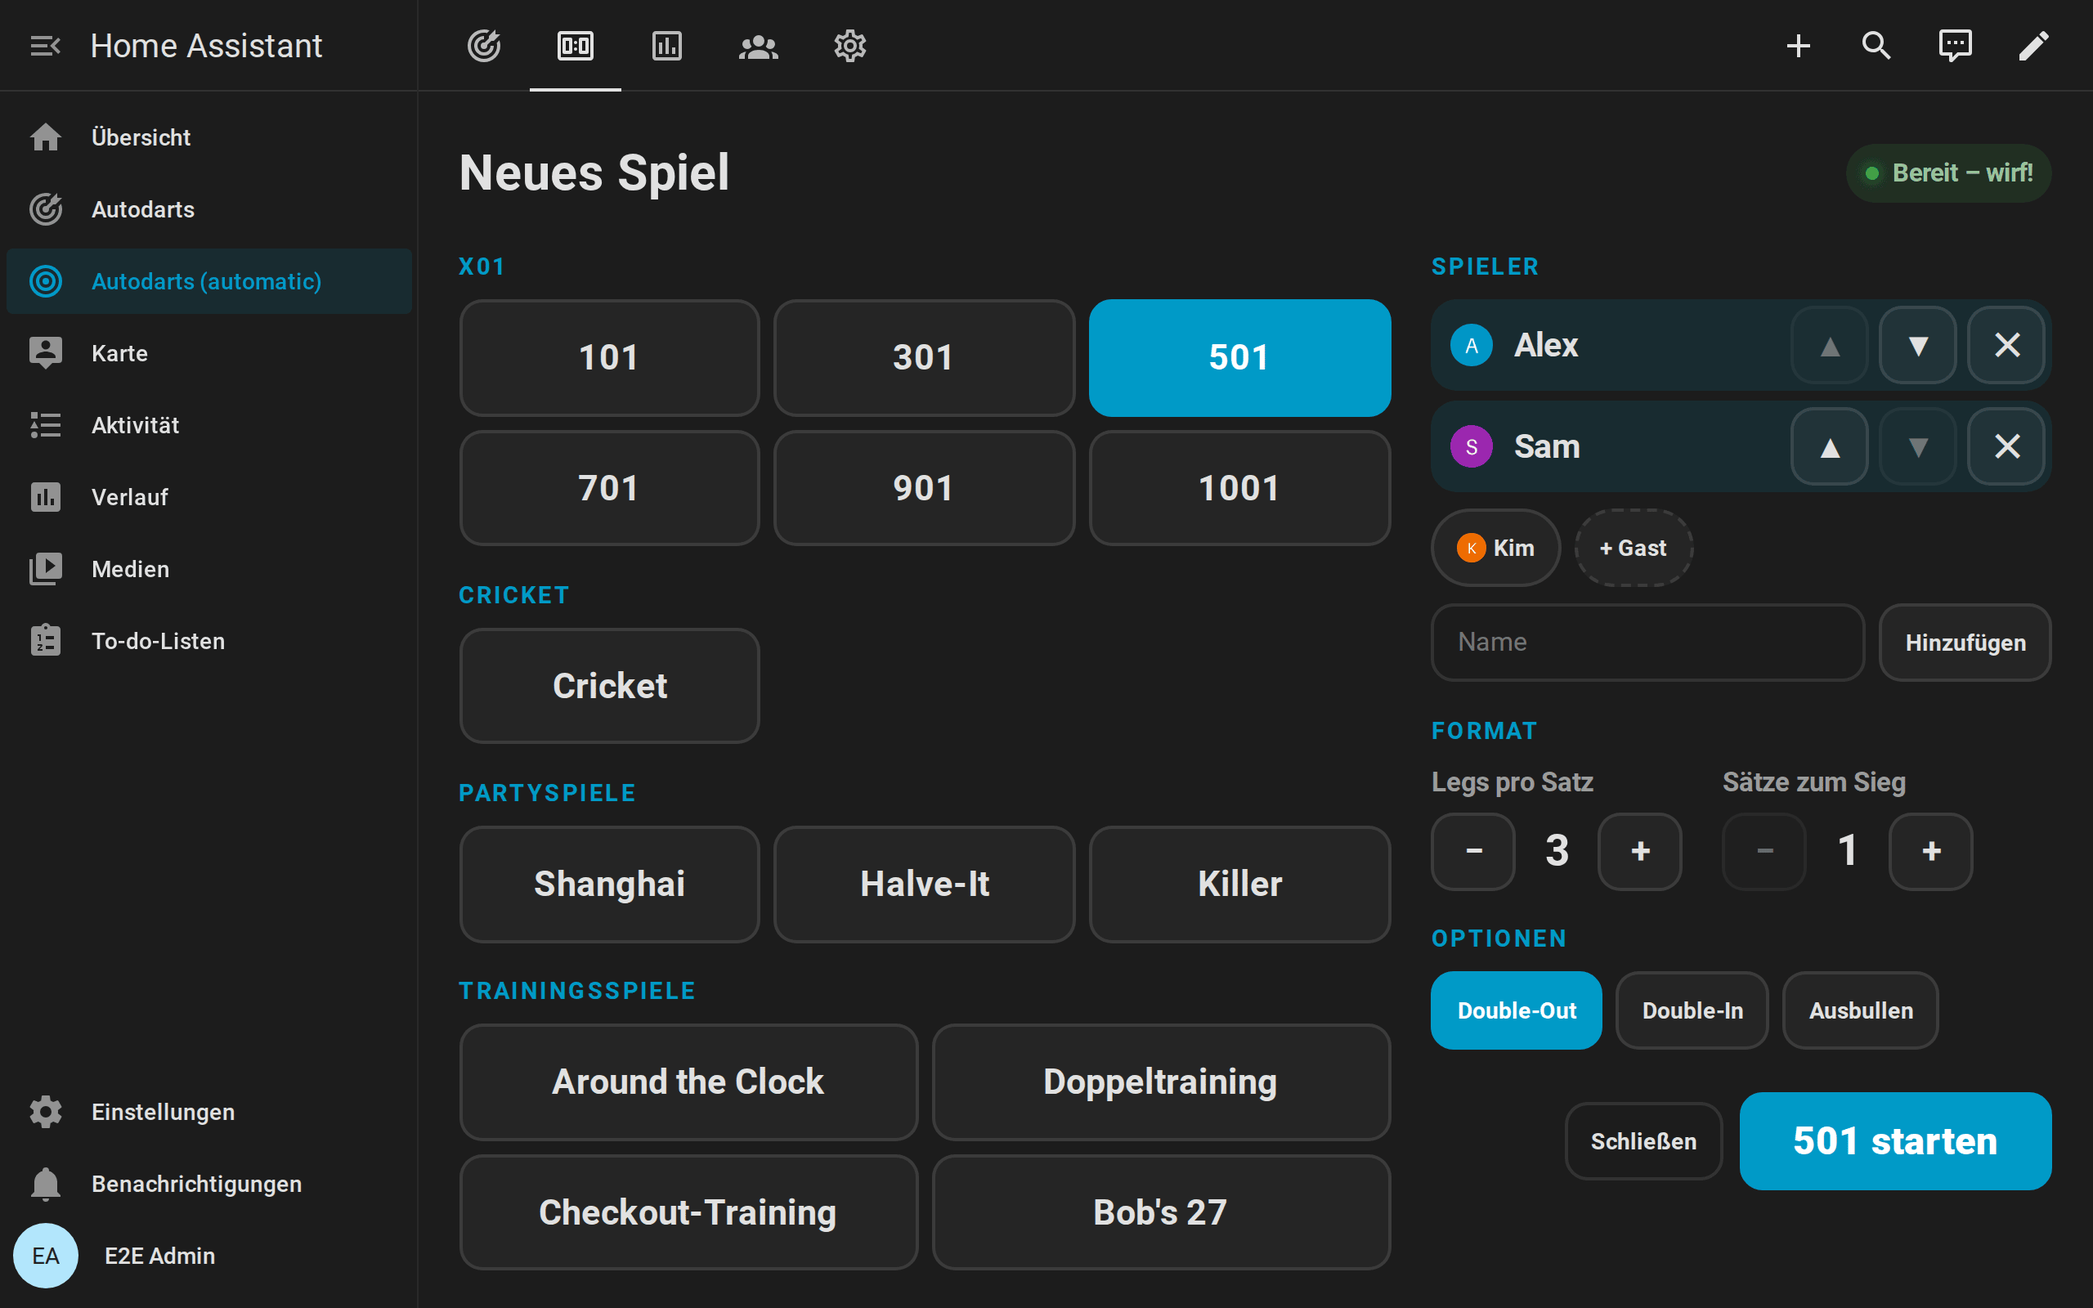
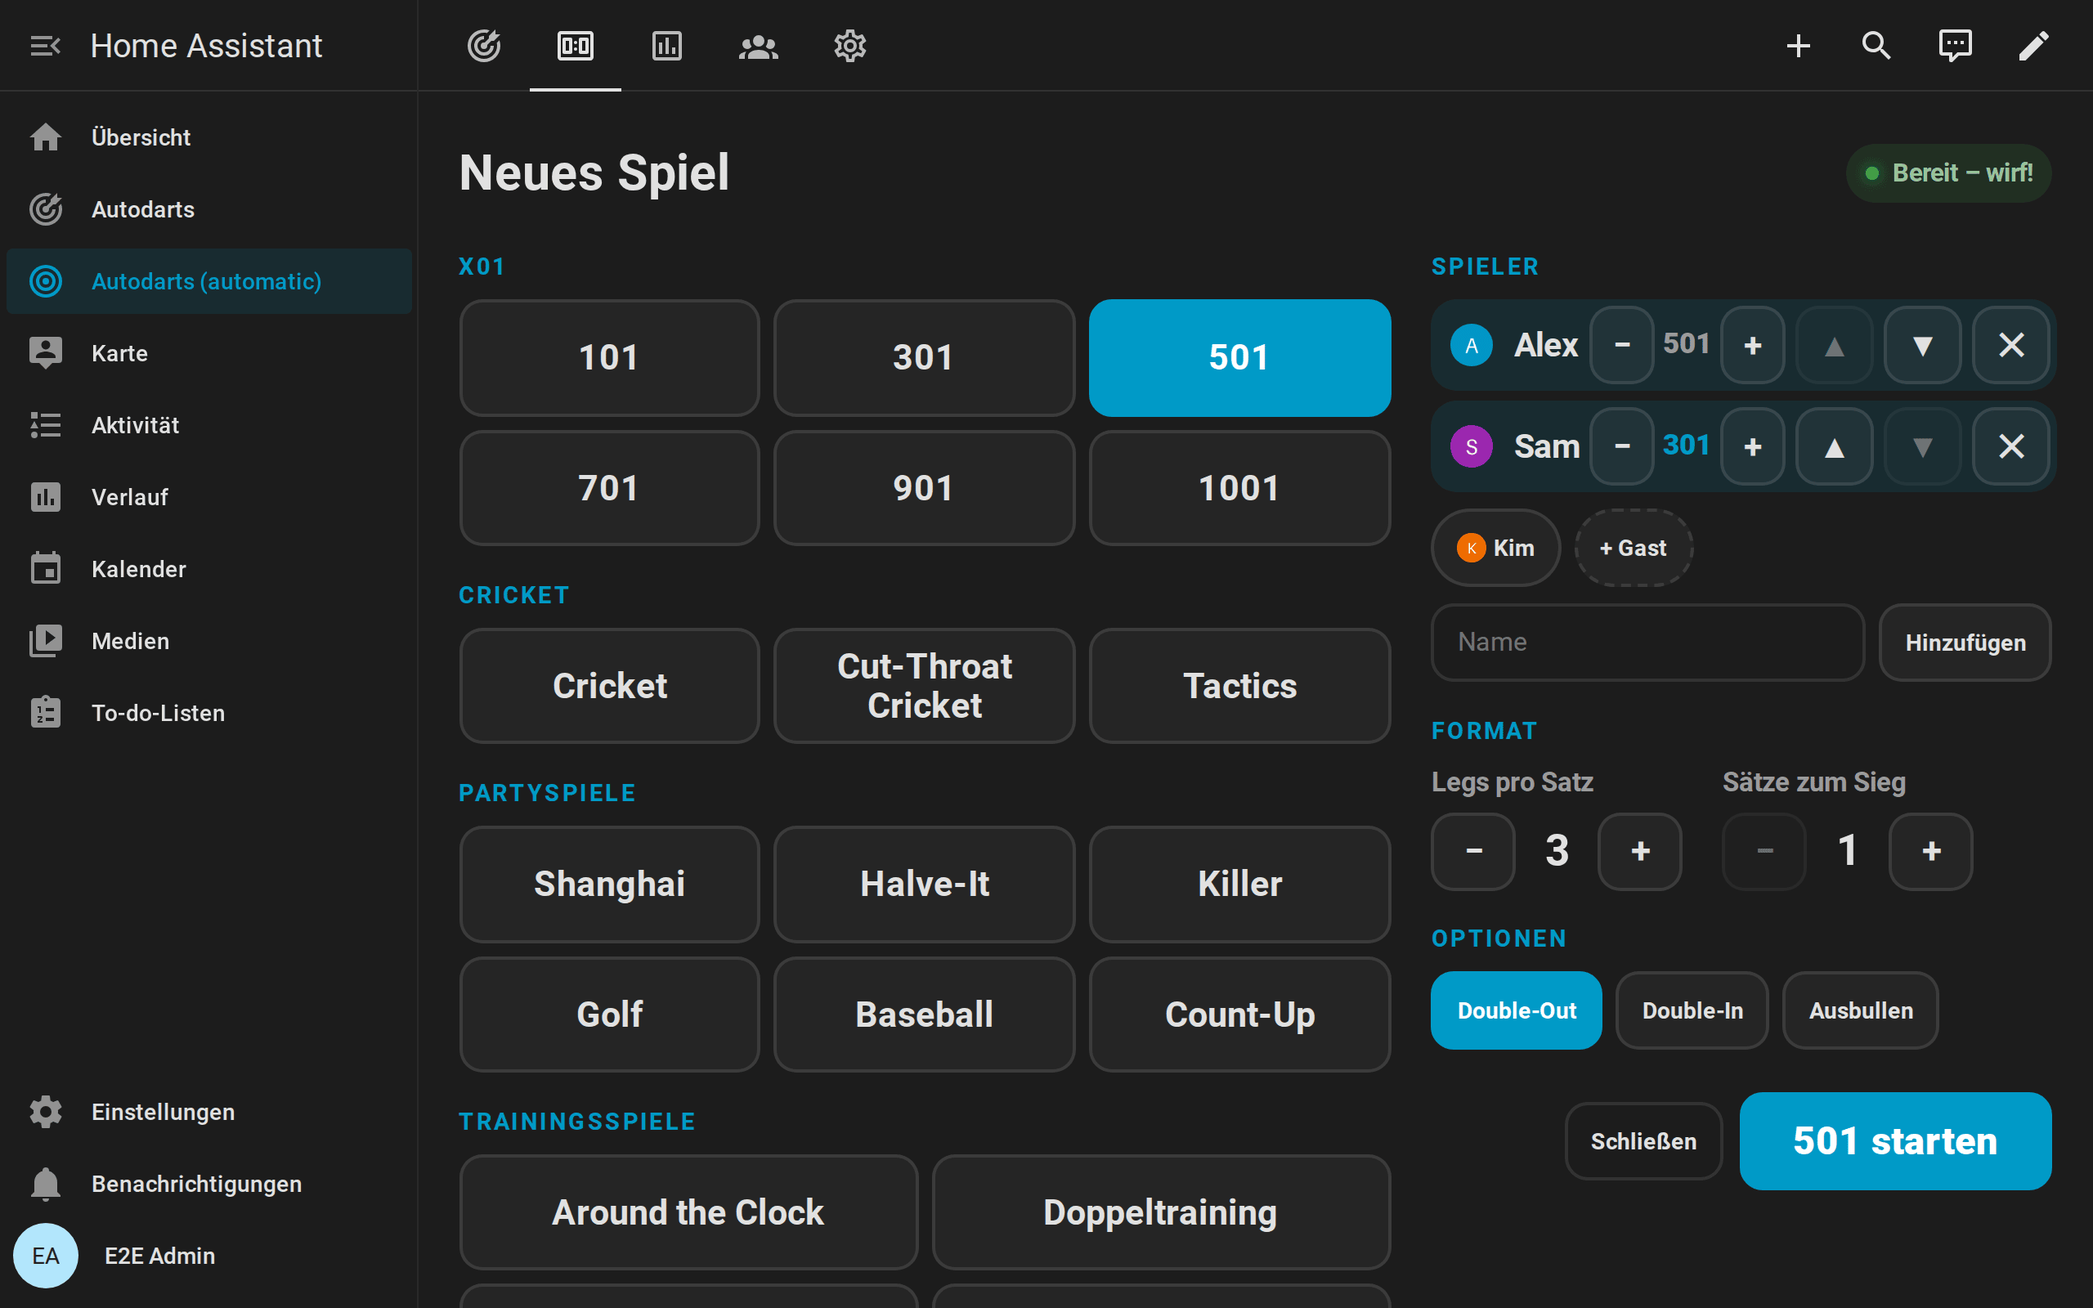
feat(scoreboard): teams and start scores on the new game screen
- The Cricket variants join the Cricket group and the new party and
  training games their groups, instead of "More games".
- In X01, − and + beside a player set a start score of their own in steps
  of 100; start scores the board had go back with the start.
- Four players of X01 or a Cricket game can play as two teams.
- The screenshot of the new game screen shows a start score of 301.

diff --git a/custom_components/autodarts/frontend/autodarts-card.js b/custom_components/autodarts/frontend/autodarts-card.js
@@ -356,6 +356,9 @@ const TEXT = {
     lobby_start: "Start {game}",
     lobby_close: "Close",
     lobby_end: "End game",
+    lobby_start_lower: "Lower start score: {name}",
+    lobby_start_raise: "Higher start score: {name}",
+    teams: "Teams (1 + 3 against 2 + 4)",
     double_out: "Double out",
     double_in: "Double in",
     bull_off_distance: "Bull-off by distance",
@@ -702,6 +705,9 @@ const TEXT = {
     lobby_start: "{game} starten",
     lobby_close: "Schließen",
     lobby_end: "Spiel beenden",
+    lobby_start_lower: "Weniger Startpunkte: {name}",
+    lobby_start_raise: "Mehr Startpunkte: {name}",
+    teams: "Teams (1 + 3 gegen 2 + 4)",
     double_out: "Double-Out",
     double_in: "Double-In",
     bull_off_distance: "Ausbullen nach Abstand",
@@ -987,6 +993,7 @@ const SCOREBOARD_KEYS = {
   doubleIn: "switch.practice_double_in",
   bullOff: "switch.practice_bull_off",
   bullOffDistance: "switch.practice_bull_off_distance",
+  teams: "switch.practice_teams",
   // Profiles with their pictures, records and the last match for the idle panels.
   profiles: "sensor.player_profiles",
   lastMatch: "sensor.last_match",
@@ -2403,14 +2410,18 @@ const LOBBY_GROUPS = ["x01", "cricket", "party", "training", "more"];
 // Limits of the start_game action.
 const LOBBY_LIMITS = { players: 4, name: 20, legs: 11, sets: 7 };
 // Every game of the practice select this card knows, for the editor before a board is seen.
-const KNOWN_GAMES = ["101", "301", "501", "701", "901", "1001", "cricket", ...PARTY_GAMES, ...DRILLS];
+const KNOWN_GAMES = ["101", "301", "501", "701", "901", "1001", ...CRICKET_GAMES, ...PARTY_GAMES, ...DRILLS];
 // A game that ended opens the new game screen after this pause, so the result shows first.
 const LOBBY_DELAY = 8000;
-const LOBBY_OPTIONS = ["double_out", "double_in", "bull_off", "bull_off_distance"];
+const LOBBY_OPTIONS = ["double_out", "double_in", "bull_off", "bull_off_distance", "teams"];
+// Teams are two pairs of players; start scores of their own go in steps of 100.
+const TEAM_SIZE = 4;
+const START_STEP = 100;
+const START_LIMITS = [101, 1001];
 
 function gameGroup(game) {
   if (/^\d+$/.test(game)) return "x01";
-  if (game.startsWith("cricket")) return "cricket";
+  if (game.startsWith("cricket") || CRICKET_GAMES.includes(game)) return "cricket";
   if (PARTY_GAMES.includes(game)) return "party";
   return DRILLS.includes(game) ? "training" : "more";
 }
@@ -2422,6 +2433,8 @@ function gameRules(game) {
   return {
     x01: group === "x01",
     drill,
+    // Four players of X01 or a Cricket game may play as two teams.
+    teams: group === "x01" || group === "cricket",
     minPlayers: game === "killer" ? 2 : 1,
     maxPlayers: drill ? 1 : LOBBY_LIMITS.players,
   };
@@ -2451,10 +2464,17 @@ function lobbyChoice(board, games) {
     const name = String(board.names[index] ?? "").trim();
     players.push(players.some((other) => name && nameKey(other) === nameKey(name)) ? "" : name);
   }
+  // Players without any name need not be chosen: the game starts with one of them.
+  const chosen = players.some(Boolean) ? players : [];
+  const starts = Array.isArray(board.starts) ? board.starts : [];
+  const start = (index) => (Number.isInteger(starts[index]) ? starts[index] : 0);
   return {
     game,
-    // Players without any name need not be chosen: the game starts with one of them.
-    players: players.some(Boolean) ? players : [],
+    players: chosen,
+    // The start score of every player, 0 for the game's; set ones go back with the start.
+    starts: chosen.map((_, index) => start(index)),
+    handicap: starts.some((value) => Number.isInteger(value) && value > 0),
+    teams: board.teams === true,
     legs: within(board.legs, LOBBY_LIMITS.legs, 1),
     sets: within(board.sets, LOBBY_LIMITS.sets, 1),
     double_out: board.double_out !== false,
@@ -2467,7 +2487,7 @@ function lobbyChoice(board, games) {
 
 // The choice after a tap: a game, a player added, moved or removed, the format or a rule.
 function lobbyChange(choice, action, value) {
-  const next = { ...choice, players: [...choice.players] };
+  const next = { ...choice, players: [...choice.players], starts: [...(choice.starts ?? [])] };
   const index = Number(value);
   const room = next.players.length < LOBBY_LIMITS.players;
   if (action === "game") {
@@ -2476,17 +2496,27 @@ function lobbyChange(choice, action, value) {
     const name = String(value ?? "").trim().slice(0, LOBBY_LIMITS.name);
     if (room && name && !next.players.some((player) => nameKey(player) === nameKey(name))) {
       next.players.push(name);
+      next.starts.push(0);
       next.draft = "";
     }
   } else if (action === "guest" && room) {
     next.players.push("");
+    next.starts.push(0);
   } else if (action === "remove") {
     next.players.splice(index, 1);
+    next.starts.splice(index, 1);
   } else if (action === "up" || action === "down") {
     const other = action === "up" ? index - 1 : index + 1;
     if (other >= 0 && other < next.players.length) {
       [next.players[index], next.players[other]] = [next.players[other], next.players[index]];
+      [next.starts[index], next.starts[other]] = [next.starts[other] ?? 0, next.starts[index] ?? 0];
     }
+  } else if ((action === "lower" || action === "raise") && gameGroup(next.game) === "x01" && index in next.players) {
+    // A start score of the player's own in steps of 100; the game's start is 0.
+    const game = Number(next.game);
+    const shown = (next.starts[index] || game) + (action === "raise" ? START_STEP : -START_STEP);
+    const start = Math.min(Math.max(shown, START_LIMITS[0]), START_LIMITS[1]);
+    next.starts[index] = start === game ? 0 : start;
   } else if (action === "legs" || action === "sets") {
     next[action] = within(next[action] + index, LOBBY_LIMITS[action], next[action]);
   } else if (action === "toggle" && LOBBY_OPTIONS.includes(value)) {
@@ -2523,6 +2553,10 @@ function startGameData(choice, { entry = null, distance = false } = {}) {
     if (distance && choice.bull_off) data.bull_off_distance = choice.bull_off_distance;
   }
   if (rules.x01) Object.assign(data, { double_out: choice.double_out, double_in: choice.double_in });
+  // Start scores go with the start once any is set, so the game's start comes back, too.
+  const starts = players.map((_, index) => choice.starts?.[index] ?? 0);
+  if (rules.x01 && (choice.handicap || starts.some(Boolean))) data.start_scores = starts;
+  if (rules.teams && players.length === TEAM_SIZE) data.teams = choice.teams === true;
   return data;
 }
 
@@ -2549,12 +2583,24 @@ function lobbyHtml(choice, ui) {
     .join("");
   const shown = (name, index) => name || `${t("score_player")} ${index + 1}`;
   const last = choice.players.length - 1;
+  // In X01, every player can start from a score of their own.
+  const startHtml = (index, who) => {
+    if (!rules.x01) return "";
+    const start = choice.starts?.[index] || Number(choice.game);
+    return (
+      `<span class="lobby-start${choice.starts?.[index] ? " own" : ""}">` +
+      button("lower", index, "−", ` aria-label="${text("lobby_start_lower", who)}"${start <= START_LIMITS[0] ? " disabled" : ""}`) +
+      `<b>${start}</b>` +
+      button("raise", index, "+", ` aria-label="${text("lobby_start_raise", who)}"${start >= START_LIMITS[1] ? " disabled" : ""}`) +
+      `</span>`
+    );
+  };
   const players = choice.players
     .map((name, index) => {
       const who = { name: shown(name, index) };
       return (
         `<li class="lobby-player${index >= rules.maxPlayers ? " resting" : ""}">${avatarHtml(ui.avatar(name))}` +
-        `<span class="who">${escapeHtml(who.name)}</span>` +
+        `<span class="who">${escapeHtml(who.name)}</span>${startHtml(index, who)}` +
         button("up", index, "▲", ` aria-label="${text("lobby_move_up", who)}"${index === 0 ? " disabled" : ""}`) +
         button("down", index, "▼", ` aria-label="${text("lobby_move_down", who)}"${index === last ? " disabled" : ""}`) +
         button("remove", index, "✕", ` aria-label="${text("lobby_remove", who)}"`) +
@@ -2595,6 +2641,7 @@ function lobbyHtml(choice, ui) {
     ...(rules.x01 ? ["double_out", "double_in"] : []),
     ...(match ? ["bull_off"] : []),
     ...(match && ui.distance && choice.bull_off ? ["bull_off_distance"] : []),
+    ...(rules.teams && ui.teams && choice.players.length === TEAM_SIZE ? ["teams"] : []),
   ];
   // Nobody chosen is one player without a name.
   const blocked = Math.max(choice.players.length, 1) < rules.minPlayers;
@@ -4020,6 +4067,10 @@ const SCOREBOARD_CSS = `${BASE_CSS}
   .lobby-player.resting { opacity: .45; }
   .lobby-player .who { flex: 1; min-width: 0; overflow: hidden; text-overflow: ellipsis; white-space: nowrap; }
   .lobby-player button { min-width: 48px; padding: 0; }
+  .lobby-start { display: inline-flex; align-items: center; gap: 4px; font-variant-numeric: tabular-nums; }
+  .lobby-start b { min-width: 3.2ch; text-align: center; font-size: .85em; color: var(--secondary-text-color); }
+  .lobby-start.own b { color: var(--ad-accent); }
+  .lobby-player .lobby-start button { min-width: 40px; }
   .suggestions { display: flex; flex-wrap: wrap; gap: 8px; margin-bottom: 10px; }
   .lobby .suggestion { display: inline-flex; align-items: center; border-radius: 999px; }
   .suggestion .home { margin-left: 6px; color: var(--ad-ok-text); }
@@ -5632,8 +5683,15 @@ function createElements(Base) {
       );
     }
 
+    // The start scores of the players, in the same order as the names.
+    _startIds() {
+      return [...(this._index?.["number.practice_start"] ?? [])].sort((a, b) =>
+        a.localeCompare(b, "en", { numeric: true })
+      );
+    }
+
     _watched() {
-      return [...super._watched(), ...this._nameIds()];
+      return [...super._watched(), ...this._nameIds(), ...this._startIds()];
     }
 
     _build() {
@@ -5768,6 +5826,11 @@ function createElements(Base) {
         double_in: on("doubleIn"),
         bull_off: on("bullOff"),
         bull_off_distance: on("bullOffDistance"),
+        teams: on("teams"),
+        starts: this._startIds().map((id) => {
+          const start = Number(this._hass.states[id]?.state);
+          return Number.isInteger(start) ? start : 0;
+        }),
       };
     }
 
@@ -5964,6 +6027,7 @@ function createElements(Base) {
           name: (game) => this._gameName(game),
           suggestions: lobbySuggestions(this._state("profiles"), this._board().names, ui.links, choice.players),
           distance: Boolean(this._ids.bullOffDistance),
+          teams: Boolean(this._ids.teams),
           running: ![undefined, "off", "unknown", "unavailable"].includes(this._state("game")?.state),
           confirmEnd: this._confirm === "end",
         });

diff --git a/tests/e2e/screenshots.py b/tests/e2e/screenshots.py
@@ -557,7 +557,7 @@ def lobby_animation(page: Page) -> None:
 
 
 def lobby_screen(page: Page) -> None:
-    """The new game screen: two players at home, three legs per set, the rules."""
+    """The new game screen: two players at home, Sam from 301, three legs per set."""
     pull_darts()
     game(page, "off")
     for index, name in enumerate(("Alex", "Sam")):
@@ -571,6 +571,7 @@ def lobby_screen(page: Page) -> None:
     wait_card(board, "!!r.querySelector('.lobby')", SCOREBOARD)
     for _ in range(2):
         card.locator("[data-lobby='legs'][data-value='1']").click()
+        card.locator("[data-lobby='lower'][data-value='1']").click()
     board.wait_for_timeout(1000)
     page_shot(board, "scoreboard-lobby")
     board.close()

diff --git a/docs/de/karten.md b/docs/de/karten.md
@@ -200,14 +200,14 @@ Wähle das nächste Spiel direkt am Board, ohne Handy: Tippe zwischen den Spiele
 <img src="../images/de/lobby.webp" alt="Animation: Auf dem Tablet öffnet Neues Spiel die Auswahl, Cricket wird gewählt, Sam kommt zu Alex, die Legs pro Satz steigen auf drei und das Spiel startet auf der Anzeigetafel" width="760">
 
 - **Spiel:** jedes Spiel von *Übungsspiel*, gruppiert in X01, Cricket, Partyspiele und Trainingsspiele. `lobby_games` schränkt die Auswahl ein.
-- **Spieler:** bis zu vier, in Wurfreihenfolge. Tippe auf einen Namen, um den Spieler hinzuzufügen, auf ▲ und ▼, um ihn zu verschieben, und auf ✕, um ihn zu entfernen. Die Namen kommen aus den Spielerprofilen und den Namensfeldern der Spieler; Spieler, die [mit einer Person verknüpft](entitaeten.md#spieler-mit-einer-person-verknüpfen-autodartslink_player) sind, die zu Hause ist, stehen vorn, mit ihrem Bild und ⌂. Tippe einen neuen Namen ein oder füge einen Gast ohne Namen hinzu. Ist niemand gewählt, wirft ein Spieler ohne Namen. Killer braucht zwei Spieler; Trainingsspiele nehmen nur den ersten Spieler.
+- **Spieler:** bis zu vier, in Wurfreihenfolge. Tippe auf einen Namen, um den Spieler hinzuzufügen, auf ▲ und ▼, um ihn zu verschieben, und auf ✕, um ihn zu entfernen. Die Namen kommen aus den Spielerprofilen und den Namensfeldern der Spieler; Spieler, die [mit einer Person verknüpft](entitaeten.md#spieler-mit-einer-person-verknüpfen-autodartslink_player) sind, die zu Hause ist, stehen vorn, mit ihrem Bild und ⌂. Tippe einen neuen Namen ein oder füge einen Gast ohne Namen hinzu. Ist niemand gewählt, wirft ein Spieler ohne Namen. Killer braucht zwei Spieler; Trainingsspiele nehmen nur den ersten Spieler. Bei X01 stellen − und + neben einem Spieler eigene [Startpunkte](entitaeten.md#teams-und-startpunkte) in Schritten von 100 ein, von 101 bis 1001.
 - **Format:** Legs pro Satz und Sätze zum Sieg, für ein Match mehrerer Spieler.
-- **Optionen:** Double-Out und Double-In bei X01 und das Ausbullen für ein Match, mit Ausbullen nach Abstand, wo das Board es anbietet.
+- **Optionen:** Double-Out und Double-In bei X01 und das Ausbullen für ein Match, mit Ausbullen nach Abstand, wo das Board es anbietet. Mit vier Spielern bei X01 oder einem Cricket-Spiel spielt *Teams* Spieler 1 und 3 gegen 2 und 4.
 - **Start:** startet das Spiel mit [`autodarts.start_game`](entitaeten.md#übungsspiel-starten-autodartsstart_game), und die Anzeigetafel zeigt es sofort. Während eines Spiels beendet *Spiel beenden* es nach einem zweiten Tippen.
 
 In der Vorschau des Karteneditors öffnet sich die Auswahl nie.
 
-<img src="../images/de/scoreboard-lobby.png" alt="Die Spielauswahl auf einem Tablet im Querformat: die Spiele nach Gruppen mit 501 gewählt, Alex und Sam mit ihren Bildern, drei Legs pro Satz, Double-Out und die Starttaste" width="760">
+<img src="../images/de/scoreboard-lobby.png" alt="Die Spielauswahl auf einem Tablet im Querformat: die Spiele nach Gruppen mit 501 gewählt, Alex und Sam mit ihren Bildern, Sam ab 301 Startpunkten, drei Legs pro Satz, Double-Out und die Starttaste" width="760">
 
 ### Ruhemodus
 

diff --git a/docs/cards.md b/docs/cards.md
@@ -209,14 +209,14 @@ Choose the next game at the board, without a phone: tap **New game** below the s
 <img src="images/en/lobby.webp" alt="Animation: on the tablet, New game opens the screen, Cricket is chosen, Sam joins Alex, the legs per set go up to three and the game starts on the scoreboard" width="760">
 
 - **Game:** every game of *Practice game*, grouped into X01, Cricket, party games and training games. `lobby_games` limits the choice.
-- **Players:** up to four, in throwing order. Tap a name to add the player, ▲ and ▼ to move them, ✕ to remove them. The names come from the player profiles and the player name fields; players [linked to a person](entities.md#link-a-player-to-a-person-autodartslink_player) who is at home come first, with their picture and ⌂. Type a new name, or add a guest without one. With nobody chosen, one player without a name throws. Killer needs two players; training games take the first player only.
+- **Players:** up to four, in throwing order. Tap a name to add the player, ▲ and ▼ to move them, ✕ to remove them. The names come from the player profiles and the player name fields; players [linked to a person](entities.md#link-a-player-to-a-person-autodartslink_player) who is at home come first, with their picture and ⌂. Type a new name, or add a guest without one. With nobody chosen, one player without a name throws. Killer needs two players; training games take the first player only. In X01, − and + beside a player set a [start score](entities.md#teams-and-start-scores) of their own in steps of 100, from 101 to 1001.
 - **Format:** legs per set and sets to win, for a match of several players.
-- **Options:** double out and double in for X01, and the bull-off for a match, with bull-off by distance where the board offers it.
+- **Options:** double out and double in for X01, and the bull-off for a match, with bull-off by distance where the board offers it. With four players of X01 or a Cricket game, *Teams* plays 1 and 3 against 2 and 4.
 - **Start:** starts the game with [`autodarts.start_game`](entities.md#start-a-practice-game-autodartsstart_game), and the scoreboard shows it at once. During a game, *End game* stops it after a second tap.
 
 The screen never opens in the preview of the card editor.
 
-<img src="images/en/scoreboard-lobby.png" alt="The new game screen on a landscape tablet: the games by group with 501 chosen, Alex and Sam with their pictures, three legs per set, double out and the start button" width="760">
+<img src="images/en/scoreboard-lobby.png" alt="The new game screen on a landscape tablet: the games by group with 501 chosen, Alex and Sam with their pictures, Sam starting from 301, three legs per set, double out and the start button" width="760">
 
 ### Idle mode
 
